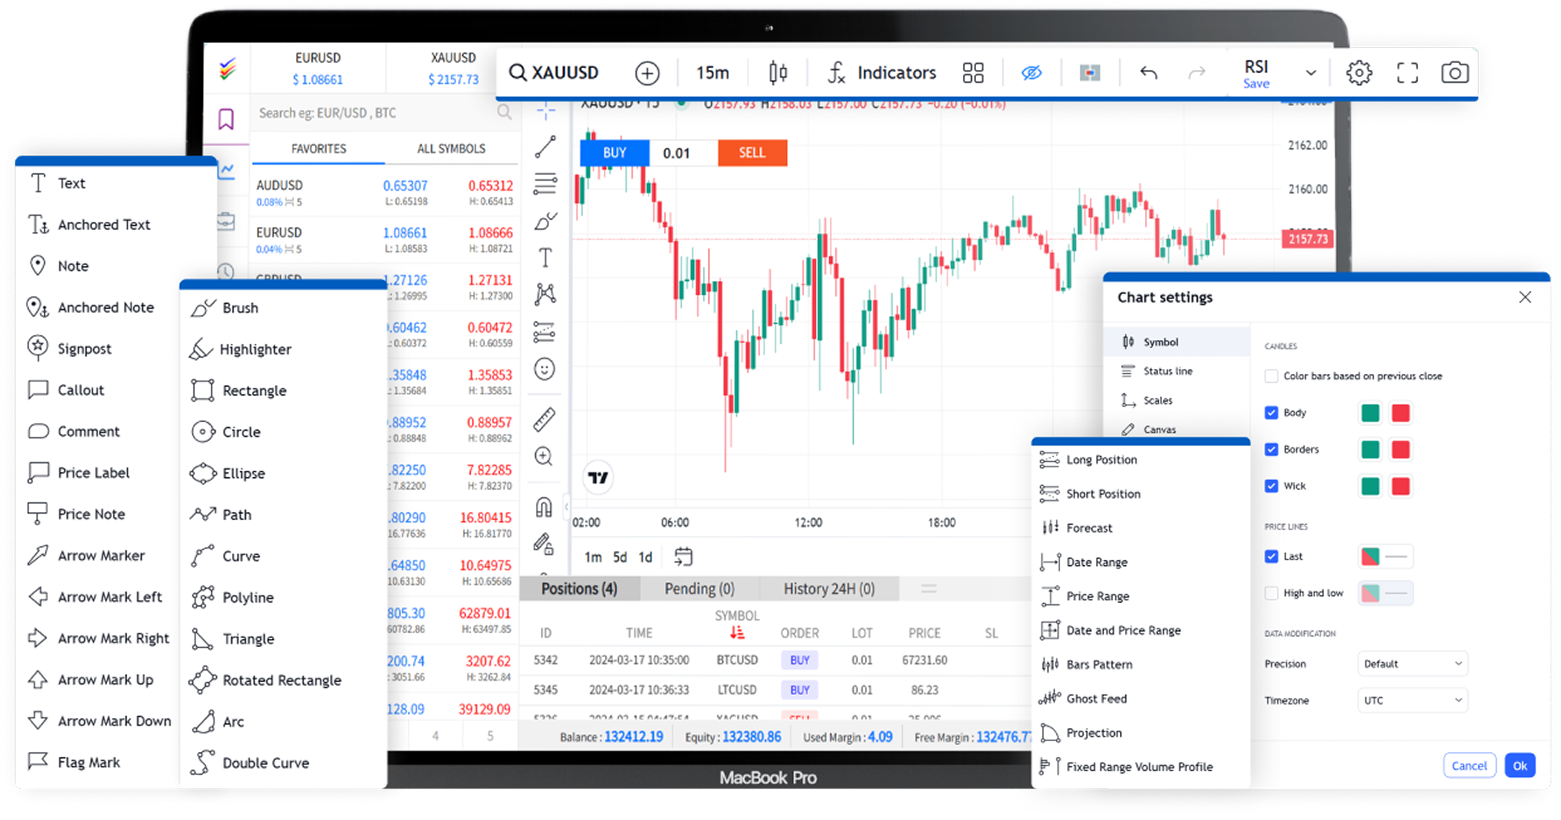
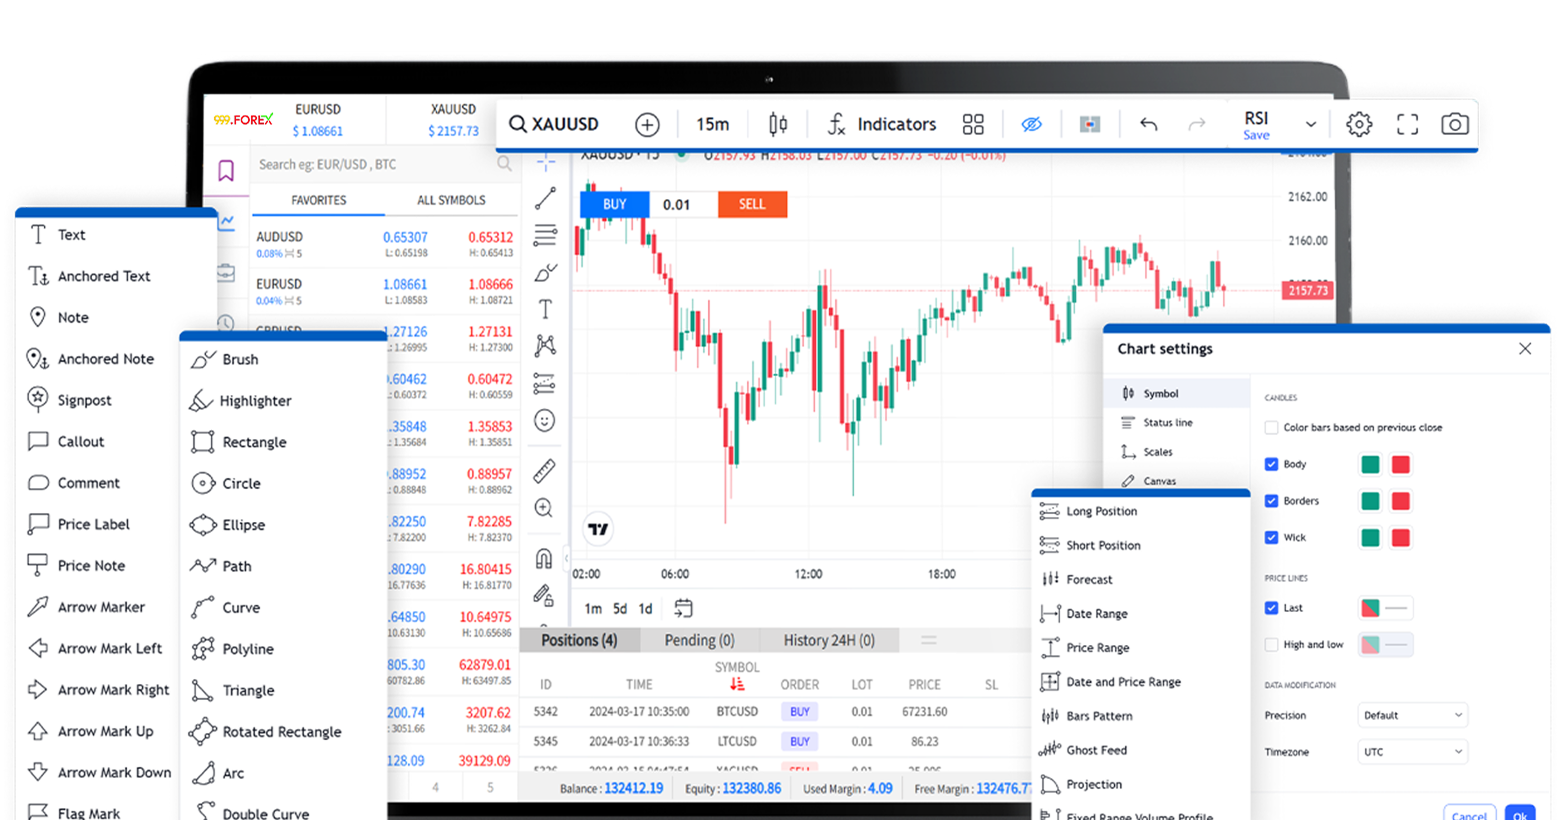
fix: label and  header submenu

diff --git a/app/routes/about-us.tsx b/app/routes/about-us.tsx
@@ -43,7 +43,7 @@ export default function AboutUs() {
                 World class Trading Platforms
               </h2>
               <p className="mt-4 text-sm md:text-base">
-                FXERO's super-fast flagship trading platform with elegant UI,
+                999.forex's super-fast flagship trading platform with elegant UI,
                 streaming market data, advanced charts
               </p>
               <p className="mt-4 text-sm md:text-base">
@@ -107,9 +107,9 @@ export default function AboutUs() {
         <div className="flex flex-col md:flex-row px-10 gap-10">
           <div className="flex-1">
             <h3 className="text-2xl md:text-3xl text-yellow-gradient font-normal md:pr-25">
-              Join FXERO to experience Raw Spreads From 0.0 pips <br />
+              Join 999.forex to experience Raw Spreads From 0.0 pips <br />
               <br />
-              Build your HFT strategies with FXERO’s free API !
+              Build your HFT strategies with 999.forex's free API !
             </h3>
           </div>
           <div className="flex-1 flex flex-col gap-10 items-center">
@@ -118,7 +118,7 @@ export default function AboutUs() {
                 Raw Spreads From 0.0 pips
               </h4>
               <p className="text-white text-sm md:text-xl mt-2">
-                FXERO mission is to provide traders with the lowest spreads
+                999.forex mission is to provide traders with the lowest spreads
                 possible during all market conditions.
               </p>
             </div>
@@ -136,7 +136,7 @@ export default function AboutUs() {
                 The Ultimate in Trading Conditions
               </h4>
               <p className="text-white text-sm md:text-xl mt-2">
-                FXERO has been created with traders in mind. HFT strategies,
+                999.forex has been created with traders in mind. HFT strategies,
                 Scalping, hedging, and automated trading are all allowed.
               </p>
             </div>
@@ -155,13 +155,13 @@ export default function AboutUs() {
                 Copy Trading with 999.forex Invest
               </h2>
               <p className="text-sm md:text-xl mt-5">
-                FXERO Invest is an innovative way you can access the
+                999.forex Invest is an innovative way you can access the
                 opportunities of trading without any technical skills, and the
-                minimum of time. You simply choose to copy FXERO traders (also
+                minimum of time. You simply choose to copy 999.forex traders (also
                 known as Strategy Managers) who are right for you and make their
                 trading strategies available to follow. We’ll do the rest!
                 <br /> <br />
-                Copy trading with FXERO Invest lets you retain full control of
+                Copy trading with 999.forex Invest lets you retain full control of
                 your money, and you’ll only pay a fee to your Strategy Manager
                 when they make a profitable trade.
               </p>

diff --git a/app/components/layout/footer.tsx b/app/components/layout/footer.tsx
@@ -42,10 +42,10 @@ const Footer = () => {
             <h4 className="text-white font-bold mb-6 sm:mb-10">Trading Platforms</h4>
             <ul className="space-y-3 sm:space-y-4 text-white/60 text-sm sm:text-base">
               <li>Web platform</li>
-              <li>Fxero API</li>
+              <li>999.forex API</li>
               <li>TV charts</li>
-              <li>MT4 to Fxero API</li>
-              <li>MT5 to Fxero API</li>
+              <li>MT4 to 999.forex API</li>
+              <li>MT5 to 999.forex API</li>
             </ul>
           </div>
 
@@ -75,9 +75,9 @@ const Footer = () => {
         {/* Footer text sections */}
         <div className="space-y-6 sm:space-y-10 mt-8 sm:mt-10 text-sm sm:text-base">
           <p className="text-white/60 text-xs sm:text-base">
-            FXERO brings intelligent, driven, and curious minds from the trading
+            999.forex brings intelligent, driven, and curious minds from the trading
             industry together to collaborate and solve quantitative finance and
-            technical problems. FXERO brings best trading experience for traders.
+            technical problems. 999.forex brings best trading experience for traders.
           </p>
 
           <p className="text-white/60 text-xs sm:text-base">
@@ -91,12 +91,12 @@ const Footer = () => {
             less than you originally put in. Past performance is no guarantee of
             future results. Before trading, please take into consideration your
             level of experience, investment objectives and seek independent
-            financial advice if necessary. Please read FXERO's full Risk
+            financial advice if necessary. Please read 999.forex's full Risk
             Disclosure.
           </p>
 
           <p className="text-white/60 text-xs sm:text-base">
-            FXERO Ltd does not direct its website and services to any individual
+            999.forex Ltd does not direct its website and services to any individual
             in any country in which the use of its website and services are
             prohibited by local laws or regulations. When accessing this website
             from a country in which its use may or may not be prohibited, it is
@@ -107,7 +107,7 @@ const Footer = () => {
           </p>
 
           <p className="text-white/60 text-xs sm:text-base">
-            Copyright © 2025 FXERO. All rights reserved.
+            Copyright © 2025 999.forex. All rights reserved.
           </p>
         </div>
       </div>

diff --git a/app/components/layout/header.tsx b/app/components/layout/header.tsx
@@ -113,7 +113,7 @@ const Header = () => {
                 to="/fxero-invest"
                 className={`${navigationMenuTriggerStyle()} bg-transparent hover:bg-white/10 focus:bg-white/10 text-white`}
               >
-                FXERO Invest
+                999.forex Invest
               </Link>
             </NavigationMenuItem>
 
@@ -151,7 +151,7 @@ const Header = () => {
           <SheetTrigger className="lg:hidden p-2">
             <Menu className="h-6 w-6 text-white" />
           </SheetTrigger>
-          <SheetContent side="right" className="w-[300px] bg-secondary p-0">
+          <SheetContent side="right" className="w-[300px] bg-secondary p-0 overflow-auto">
             <SheetTitle className="text-white"></SheetTitle> 
             <SheetDescription></SheetDescription>
             <div className="flex flex-col space-y-4 p-4">
@@ -206,7 +206,7 @@ const Header = () => {
                 className="block text-lg font-bold text-white hover:text-gray-200"
                 onClick={() => setIsOpen(false)}
               >
-                FXERO Invest
+                999.forex Invest
               </Link>
               <Link
                 to="/market-analysis"
@@ -241,9 +241,9 @@ const Header = () => {
 
 const aboutUsLinks = [
   {
-    title: "Why FXERO",
+    title: "Why 999.forex",
     href: "/about-us",
-    description: "Why FXERO is the best choice for your business.",
+    description: "Why 999.forex is the best choice for your business.",
   },
   {
     title: "Awards",
@@ -287,18 +287,18 @@ const productsLinks = [
       "Advanced technical analysis with professional-grade charting tools.",
   },
   {
-    title: "MT4 to Fxero API",
+    title: "MT4 to 999.forex API",
     href: "/fxero-api",
     description:
       "Seamlessly connect MetaTrader 4 to our advanced trading infrastructure.",
   },
   {
-    title: "MT5 to Fxero API",
+    title: "MT5 to 999.forex API",
     href: "/fxero-api",
     description: "Integrate MetaTrader 5 with our robust trading ecosystem.",
   },
   {
-    title: "FXERO API",
+    title: "999.forex API",
     href: "/fxero-api",
     description:
       "Build custom trading solutions with our comprehensive REST API.",

diff --git a/app/routes/home.tsx b/app/routes/home.tsx
@@ -57,7 +57,7 @@ export default function Home() {
               Enjoy Technology Enjoy Investing.
             </h2>
             <p className="text-gray-gradient max-w-full sm:w-140 lg:w-120 md:w-100 text-lg sm:text-2xl mt-4">
-              Build your HFT strategies with FXERO's free API Raw Spreads From
+              Build your HFT strategies with 999.forex's free API Raw Spreads From
               0.0 pips
             </p>
 
@@ -250,7 +250,7 @@ export default function Home() {
               In-Depth Daily Market Analysis
             </h2>
             <p className="mt-10 text-base md:text-xl">
-              At FXERO, we believe that the best trader is an educated one. We
+              At 999.forex, we believe that the best trader is an educated one. We
               analyse and explain the price movements of the global markets,
               giving traders all the in-depth knowledge they need to make their
               next move.
@@ -276,7 +276,7 @@ export default function Home() {
             <div className="xl:pr-60 px-5 md:pr-20 lg:pr-40">
               <h2 className="text-3xl md:text-5xl font-bold">Super-fast elegant UI</h2>
               <p className="my-10 text-base md:text-xl">
-                FXERO's super-fast flagship trading platform with elegant UI,
+                999.forex's super-fast flagship trading platform with elegant UI,
                 Inbuild strategies, streaming market data, advanced charts.
                 Experience the way of trading.
               </p>
@@ -388,7 +388,7 @@ export default function Home() {
                 <MessageCircle className="w-5 h-5 text-white" />
               </div>
               <div className="flex-1">
-                <h4 className="font-bold">FXERO Raw spread</h4>
+                <h4 className="font-bold">999.forex Raw spread</h4>
                 <p className="text-sm md:text-base">
                   Enjoy spreads as low as 0.0 pips^ with deep <br /> liquidity
                   and no requotes.

diff --git a/app/routes/web-application.tsx b/app/routes/web-application.tsx
@@ -23,7 +23,7 @@ const WebApplication = () => {
               World class Trading Platforms
             </h2>
             <p className="text-white text-center text-lg md:text-2xl mt-6">
-              FXERO's super-fast flagship trading platform with elegant UI,
+              999.forex's super-fast flagship trading platform with elegant UI,
               streaming market data, advanced charts
             </p>
             <Link
@@ -47,7 +47,7 @@ const WebApplication = () => {
               Amazing Features
             </h3>
             <p className="text-base md:text-xl text-center mt-2">
-              FXERO has been created with traders in mind.
+              999.forex has been created with traders in mind.
             </p>
             <div className="flex flex-col md:flex-row justify-between mt-10 gap-15 md:gap-44">
               <div className="md:flex-1 bg-red-radial h-80 flex flex-col pt-20 items-center rounded-lg px-5">
@@ -94,7 +94,7 @@ const WebApplication = () => {
               <div className="md:w-3/4">
                 <h3 className="text-3xl md:text-5xl">Super-fast elegant UI</h3>
                 <p className="text-base md:text-xl mt-10">
-                  FXERO's super-fast flagship trading platform with elegant UI,
+                  999.forex's super-fast flagship trading platform with elegant UI,
                   Inbuild strategies, streaming market data, advanced charts.
                   Experience the way of trading.
                 </p>

diff --git a/app/routes/fxero-invest.tsx b/app/routes/fxero-invest.tsx
@@ -17,13 +17,13 @@ const FxeroInvest = () => {
               you’re not feeling up to it yourself, we have the perfect
               solution.
               <br /> <br />
-              FXERO Invest is an innovative way you can access the opportunities
+              999.forex Invest is an innovative way you can access the opportunities
               of trading without any technical skills, and the minimum of time.
-              You simply choose to copy FXERO traders (also known as Strategy
+              You simply choose to copy 999.forex traders (also known as Strategy
               Managers) who are right for you and make their trading strategies
               available to follow. We’ll do the rest!
               <br /> <br />
-              Copy trading with FXERO Invest lets you retain full control of
+              Copy trading with 999.forex Invest lets you retain full control of
               your money, and you’ll only pay a fee to your Strategy Manager
               when they make a profitable trade.
             </p>
@@ -139,7 +139,7 @@ const FxeroInvest = () => {
                 Integrated with your favorite tools.
               </h3>
               <p className="text-center text-lg md:text-2xl font-medium mt-5">
-                with FXERO’s Build your HFT strategies
+                with 999.forex’s Build your HFT strategies
               </p>
               <div className="flex gap-5 mt-15 justify-center">
                 <Link

diff --git a/app/routes/awards.tsx b/app/routes/awards.tsx
@@ -12,7 +12,7 @@ const Awards = () => {
               999.forex’s Global Awards
             </h2>
             <p className="text-sm md:text-xl mt-8">
-              Since FXERO’s inception, the brand has been widely recognised for
+              Since 999.forex’s inception, the brand has been widely recognised for
               industry innovation, delivers ultra-low latency execution, high
               capacity and robust, consistent exchange performance.
               <br />
@@ -35,7 +35,7 @@ const Awards = () => {
             </div>
             <div className="pr-0 md:pr-10">
               <p className="md:text-xl">
-                FXERO's Best Trading Platform and best execution awards. We are
+                999.forex's Best Trading Platform and best execution awards. We are
                 honored by every accolade we receive, while our dedication to
                 our clients and partners grows stronger with every new award
               </p>
@@ -88,7 +88,7 @@ const Awards = () => {
               Integrated with your favorite tools.
             </h2>
             <p className="text-sm md:text-xl mt-8">
-              with FXERO’s Build your HFT strategies
+              with 999.forex’s Build your HFT strategies
             </p>
             <Link
               to="/signup"

diff --git a/app/routes/trading-instruments.tsx b/app/routes/trading-instruments.tsx
@@ -42,7 +42,7 @@ const TradingViewCharts = () => {
                       <BriefcaseBusiness className="w-5 h-5" />
                     </div>
                     <p className="flex-1 text-red-gradient text-base md:text-xl">
-                      FXERO gives you the keys to access the forex market 24
+                      999.forex gives you the keys to access the forex market 24
                       hours a day, 5 days a week, allowing you to trade the most
                       popular major, minor and exotic currency pairs.
                     </p>

diff --git a/app/routes/market-analysis.tsx b/app/routes/market-analysis.tsx
@@ -368,7 +368,7 @@ const MarketAnalysis = () => {
                       />
                       <p className="text-white text-center mt-2">
                         "Easy to learn forex trading.Best raw spread broker. 0.0
-                        spred is very important for algo trading. FXERO offers
+                        spred is very important for algo trading. 999.forex offers
                         Raw spread and Web application is good"
                         <br />
                         <br />

diff --git a/app/routes/fxero-api.tsx b/app/routes/fxero-api.tsx
@@ -12,7 +12,7 @@ const FxeroApi = () => {
         <div className="py-15 md:py-35 px-5">
           <div className="md:w-1/2 mx-auto">
             <h2 className="text-4xl md:text-6xl font-bold text-center">
-              FXERO API
+              999.forex API
             </h2>
             <p className="text-base md:text-xl mt-5 text-center">
               We offer access through our API to a wide range of asset classes,
